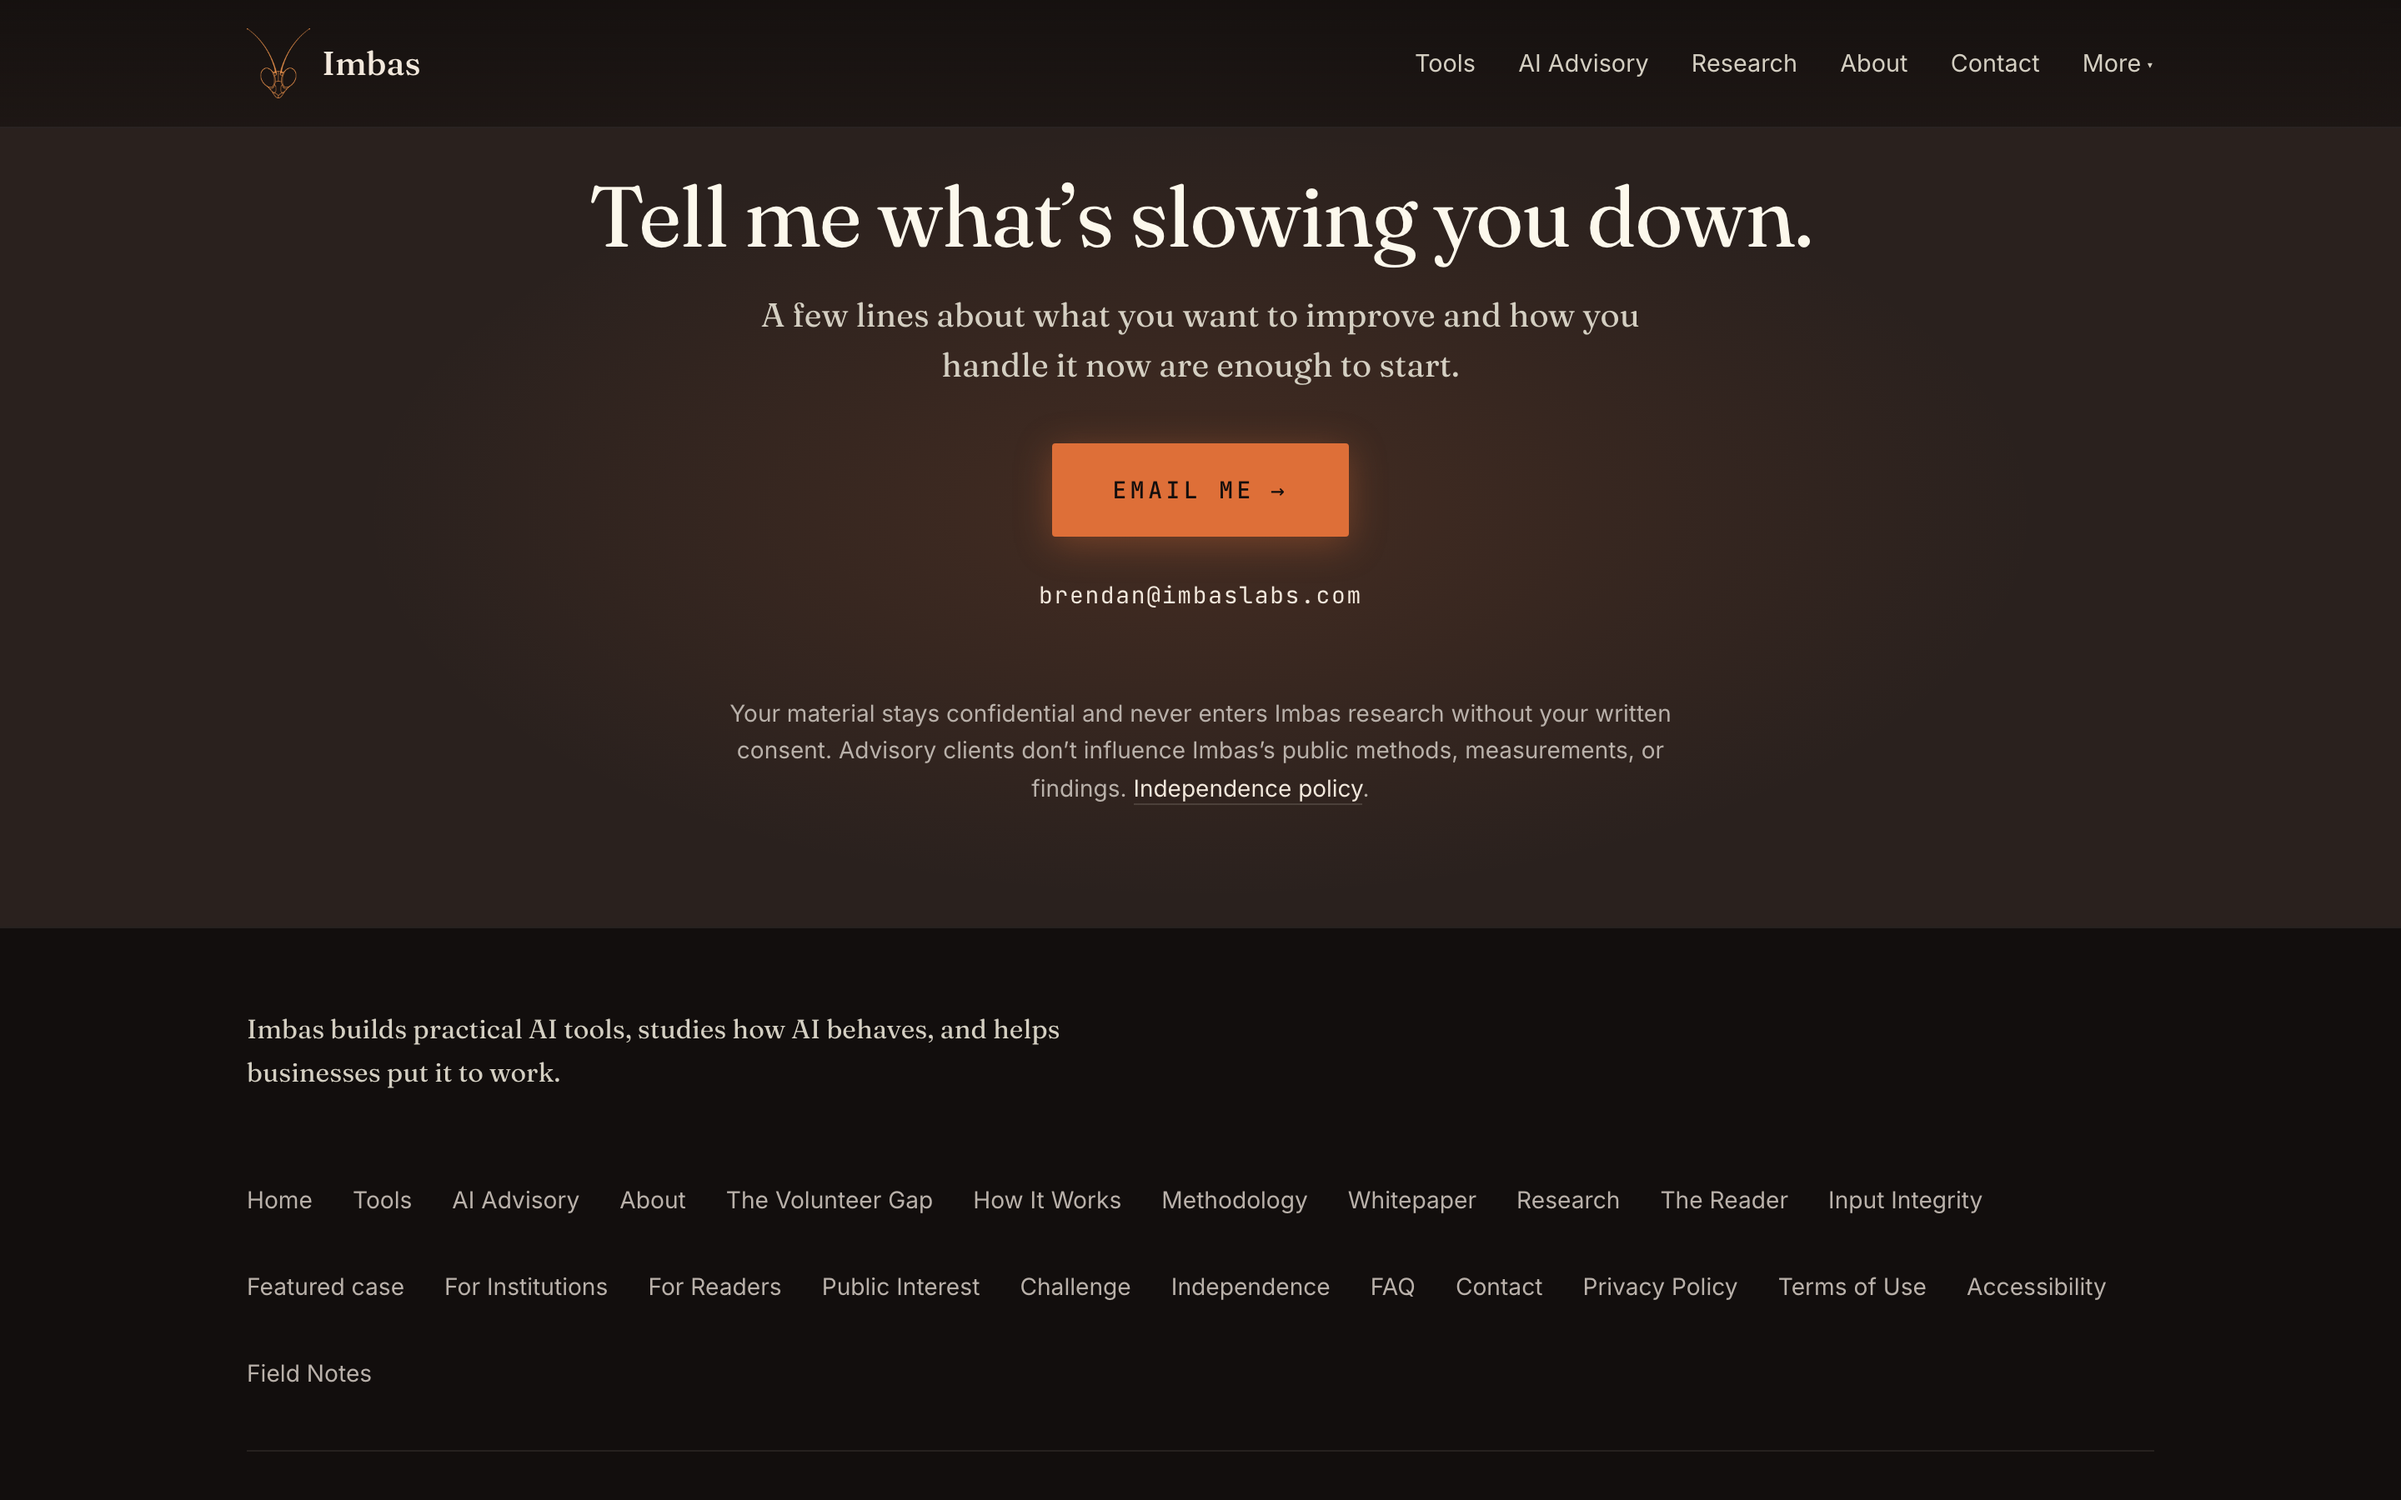
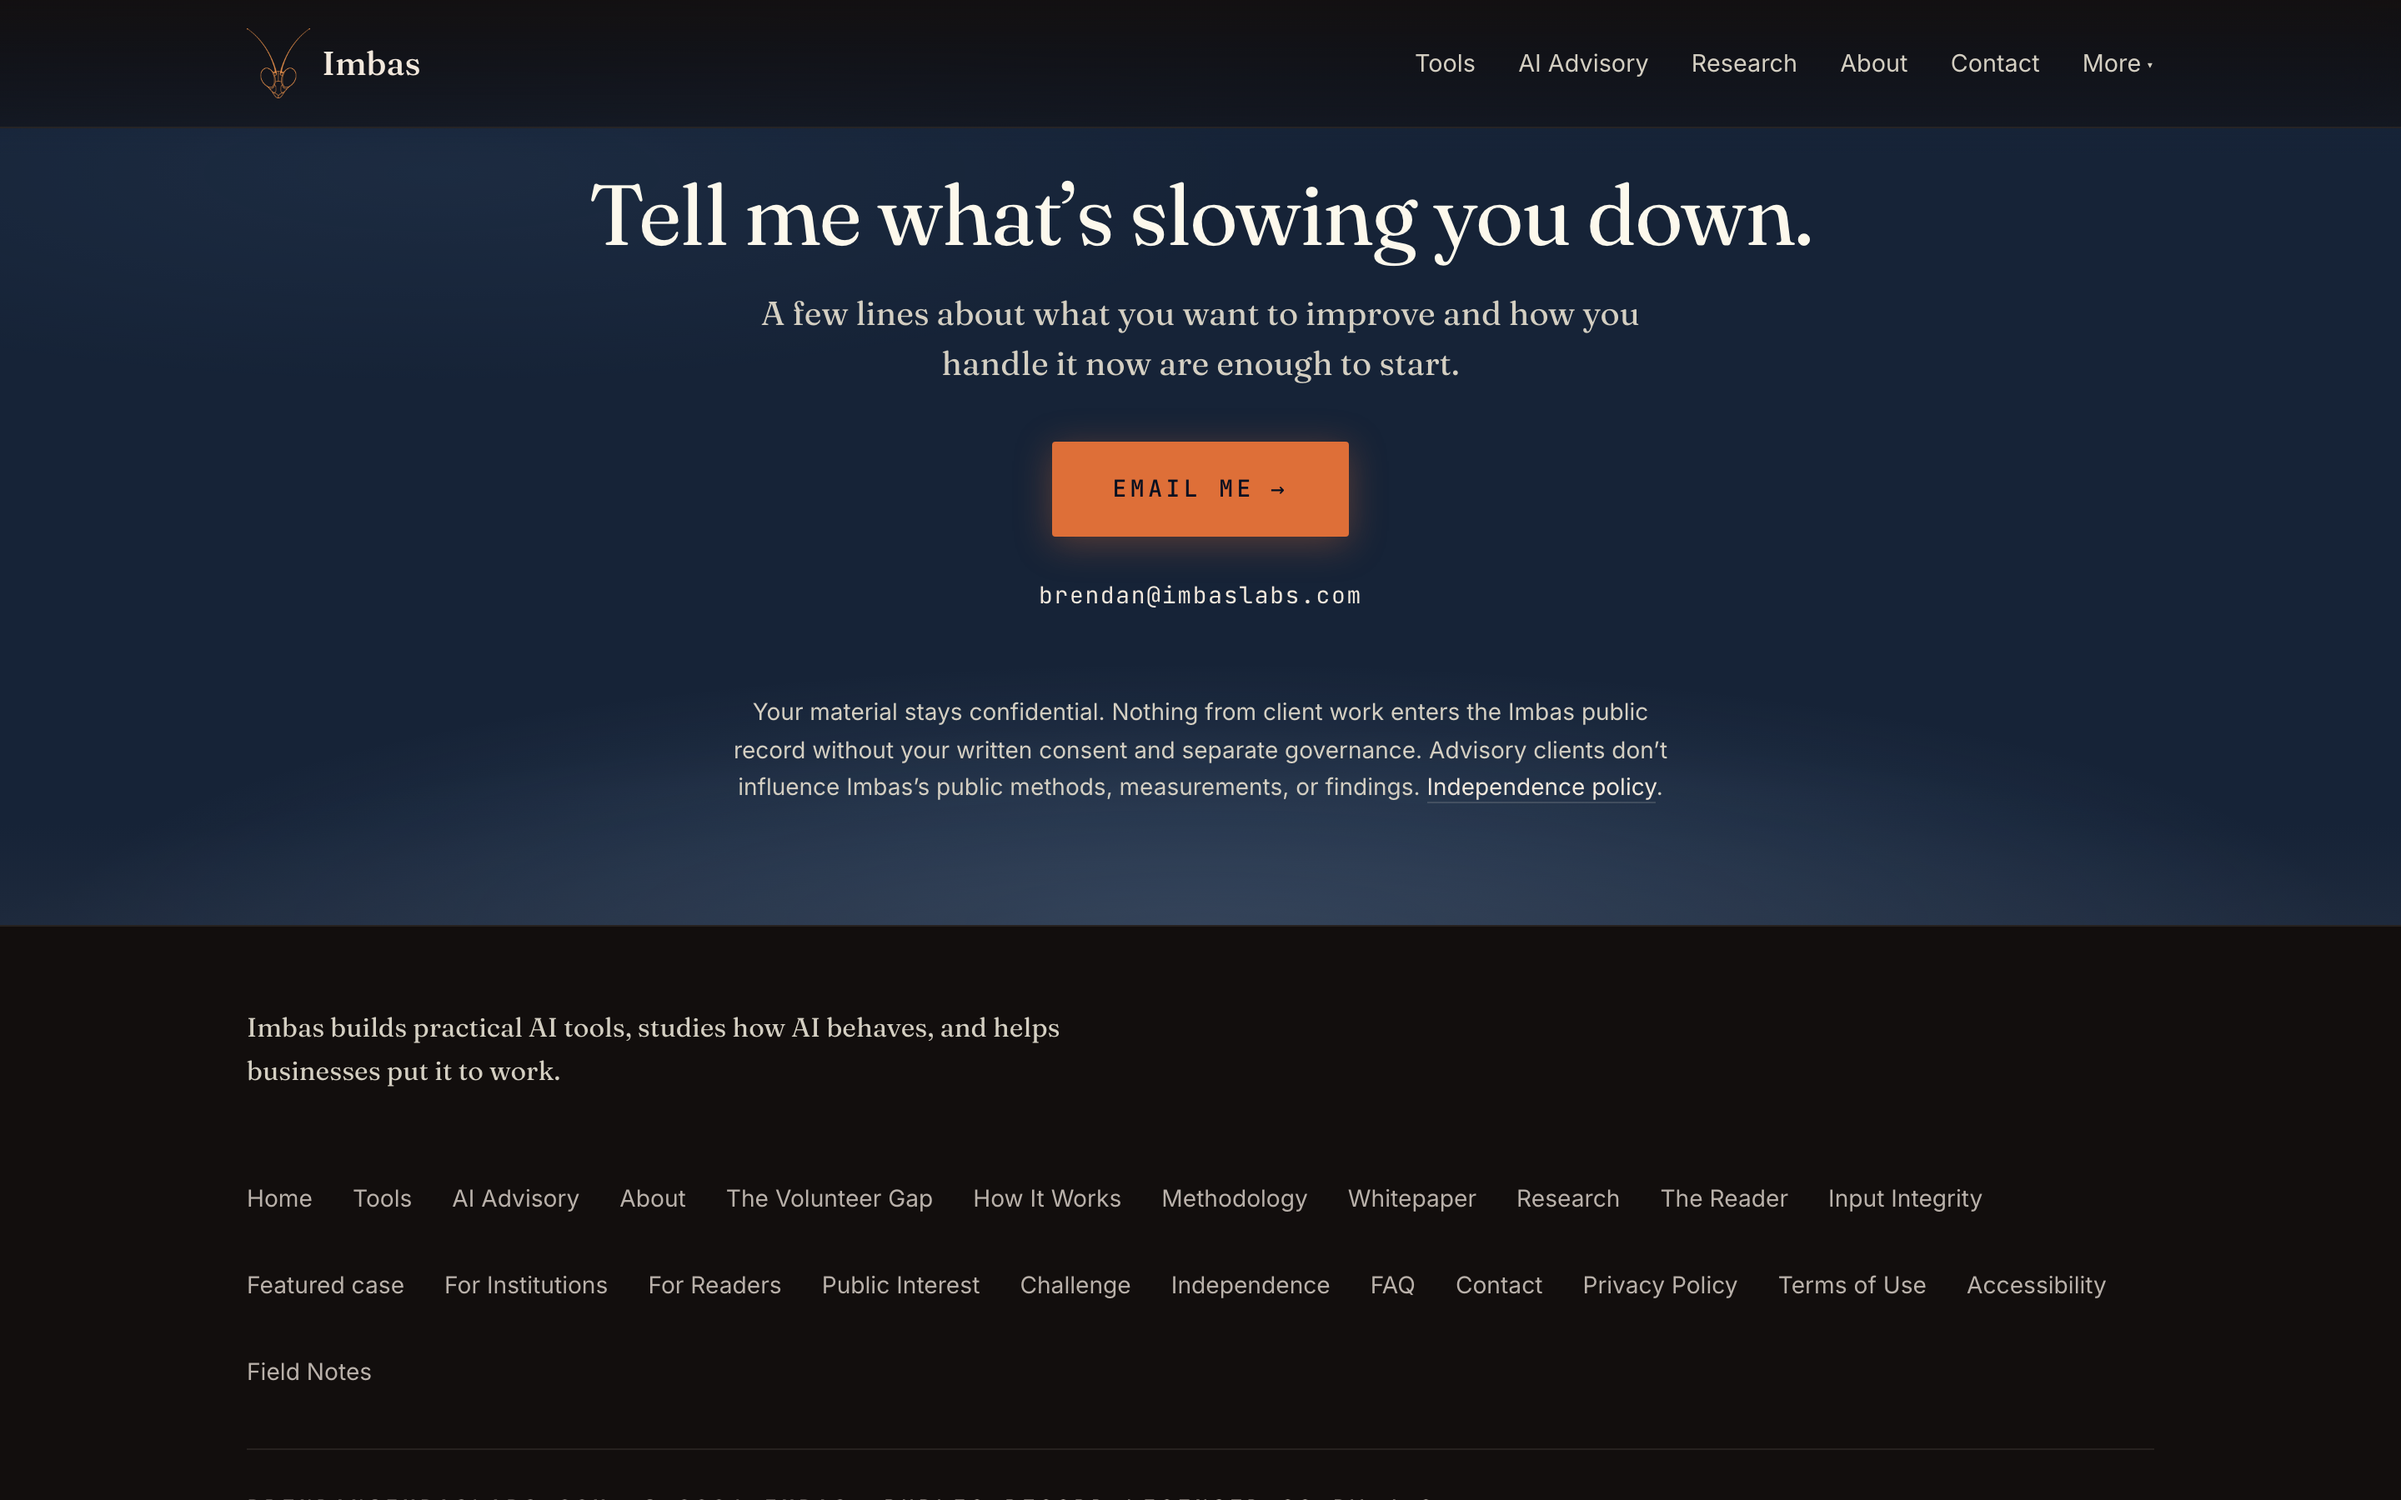
Accept the eight refreshed frames, each with a demonstrated cause
Accepted one scenario at a time with --update: home-tools,
advisory-masthead, advisory-boundaries and home-experience, at both
viewports. Each committed baseline equals the hash that two independent
full --diff runs (2026-11-03T17-06-44Z inside npm test, and
17-10-35Z) observed byte for byte.

Causes, by the commit that moved each frame:
- home-tools: abe9a09 trimmed the hero, so the frame scrolls to 480
  (was 652) on desktop and 316 (was 616) on mobile and now shows the
  hero actions above a borderless Tools band; 8f492c1 lifted the tool
  label to --ember-bright. The previous commit's hero edits move the
  mobile frame by one CSS pixel more: with only those edits reverted,
  the frame reproduces the 8f492c1 observation e42f6cf2 byte for byte.
- advisory-masthead: abe9a09 rewrote the services list that sits under
  the masthead and set that band on the Thesis slate.
- advisory-boundaries: abe9a09 brought the new confidentiality sentence
  and the navy close; 8f492c1 lifted the terms colour. The previous
  commit's Tools I've built block makes the page taller, so the frame
  scrolls to 3657 / 5765. With only advisory.html reverted, both frames
  reproduce the 8f492c1 observations (32127318, 47b34e75) byte for byte.
- home-experience: abe9a09 restored Your Experience's top spacing on
  research.html; scroll 706 -> 681 desktop, 527 -> 522 mobile.

After acceptance, npm test passes (2,034 pass, 0 fail, 13 skipped),
[…]

diff --git a/docs/qa/visual-acceptance-harness/manifest.md b/docs/qa/visual-acceptance-harness/manifest.md
@@ -63,14 +63,14 @@ A board that lists only what it covers reads as complete. These are the result s
 
 | field | value |
 | --- | --- |
[1 lines of base64/hex data omitted]
-| bytes | 624846 |
[1 lines of base64/hex data omitted]
+| bytes | 718911 |
 | snapshot | `advisory-boundaries--desktop.snapshot.txt` |
[1 lines of base64/hex data omitted]
-| snapshot bytes | 2396 |
[1 lines of base64/hex data omitted]
+| snapshot bytes | 2445 |
 | viewport | 1440x900@2x (desktop) |
 | url | `/advisory.html`, query `(none)` |
-| framed on | `.adv-terms` at scroll offset 3737 |
+| framed on | `.adv-terms` at scroll offset 3657 |
 | browser | `HeadlessChrome/148.0.7778.96` |
 | state captured | Advisory, the terms line in the close — the wall between advisory work and Imbas's public measurement |
 | expected behaviour | The close of the page and the one line of terms under it. The v4.4 rewrite folded the three practice commitments this frame used to hold into that line, so the frame follows it. The line still carries the boundary the rest of the tree depends on: client material stays confidential, and advisory clients do not influence Imbas's public methods, measurements, or findings, with the independence policy one link away. This boundary is the reason the commercial page can sit beside the measurement work at all, so it is photographed rather than left to prose. |
@@ -79,14 +79,14 @@ A board that lists only what it covers reads as complete. These are the result s
 
 | field | value |
 | --- | --- |
[1 lines of base64/hex data omitted]
-| bytes | 553029 |
[1 lines of base64/hex data omitted]
+| bytes | 608723 |
 | snapshot | `advisory-boundaries--mobile.snapshot.txt` |
[1 lines of base64/hex data omitted]
-| snapshot bytes | 1501 |
[1 lines of base64/hex data omitted]
+| snapshot bytes | 1550 |
 | viewport | 375x812@3x (mobile) |
 | url | `/advisory.html`, query `(none)` |
-| framed on | `.adv-terms` at scroll offset 5946 |
+| framed on | `.adv-terms` at scroll offset 5765 |
 | browser | `HeadlessChrome/148.0.7778.96` |
 | state captured | Advisory, the terms line in the close — the wall between advisory work and Imbas's public measurement |
 | expected behaviour | The close of the page and the one line of terms under it. The v4.4 rewrite folded the three practice commitments this frame used to hold into that line, so the frame follows it. The line still carries the boundary the rest of the tree depends on: client material stays confidential, and advisory clients do not influence Imbas's public methods, measurements, or findings, with the independence policy one link away. This boundary is the reason the commercial page can sit beside the measurement work at all, so it is photographed rather than left to prose. |
@@ -95,11 +95,11 @@ A board that lists only what it covers reads as complete. These are the result s
 
 | field | value |
 | --- | --- |
[1 lines of base64/hex data omitted]
-| bytes | 888036 |
[1 lines of base64/hex data omitted]
+| bytes | 1000538 |
 | snapshot | `advisory-masthead--desktop.snapshot.txt` |
[1 lines of base64/hex data omitted]
-| snapshot bytes | 1514 |
[1 lines of base64/hex data omitted]
+| snapshot bytes | 1717 |
 | viewport | 1440x900@2x (desktop) |
 | url | `/advisory.html`, query `(none)` |
 | framed on | `.adv-hero` at scroll offset 0 |
@@ -111,8 +111,8 @@ A board that lists only what it covers reads as complete. These are the result s
 
 | field | value |
 | --- | --- |
[1 lines of base64/hex data omitted]
-| bytes | 747449 |
[1 lines of base64/hex data omitted]
+| bytes | 760862 |
 | snapshot | `advisory-masthead--mobile.snapshot.txt` |
[1 lines of base64/hex data omitted]
 | snapshot bytes | 1131 |
@@ -543,14 +543,14 @@ A board that lists only what it covers reads as complete. These are the result s
 
 | field | value |
 | --- | --- |
[1 lines of base64/hex data omitted]
-| bytes | 610915 |
[1 lines of base64/hex data omitted]
+| bytes | 634503 |
 | snapshot | `home-experience--desktop.snapshot.txt` |
[2 lines of base64/hex data omitted]
 | snapshot bytes | 2036 |
 | viewport | 1440x900@2x (desktop) |
 | url | `/research.html`, query `(none)` |
-| framed on | `.your-experience__layout` at scroll offset 706 |
+| framed on | `.your-experience__layout` at scroll offset 681 |
 | browser | `HeadlessChrome/148.0.7778.96` |
 | state captured | The experience region, on the research page since the v4.4 refresh — the loop described in prose beside the two ways into it |
 | expected behaviour | The region that tells a reader what using Imbas is: bring an answer, get a Second Question back, ask it, and put the two side by side. Beside the prose sits the entrance — Open the Reader, under the line offering a run now. THE TWO FRAMES DIFFER HERE AND THAT IS THE POINT OF HAVING BOTH: the desktop frame also carries the suggestion form, and the mobile frame carries none of it, because `.experience-intake__secondary` is display:none under 700px and the `.experience-intake__mobile-suggest` block its stylesheet hands off to exists in no markup on this site. So the assertions below name only what both frames must show, and the desktop-only half is held by the desktop image. This was the surface a homepage rebuild was most likely to replace, and the v4.4 refresh moved it to /research.html unchanged, so it is framed on its own rather than folded into a picture of the whole page. |
@@ -559,14 +559,14 @@ A board that lists only what it covers reads as complete. These are the result s
 
 | field | value |
 | --- | --- |
[1 lines of base64/hex data omitted]
-| bytes | 552613 |
[1 lines of base64/hex data omitted]
+| bytes | 554260 |
 | snapshot | `home-experience--mobile.snapshot.txt` |
[2 lines of base64/hex data omitted]
 | snapshot bytes | 1454 |
 | viewport | 375x812@3x (mobile) |
 | url | `/research.html`, query `(none)` |
-| framed on | `.your-experience__layout` at scroll offset 527 |
+| framed on | `.your-experience__layout` at scroll offset 522 |
 | browser | `HeadlessChrome/148.0.7778.96` |
 | state captured | The experience region, on the research page since the v4.4 refresh — the loop described in prose beside the two ways into it |
 | expected behaviour | The region that tells a reader what using Imbas is: bring an answer, get a Second Question back, ask it, and put the two side by side. Beside the prose sits the entrance — Open the Reader, under the line offering a run now. THE TWO FRAMES DIFFER HERE AND THAT IS THE POINT OF HAVING BOTH: the desktop frame also carries the suggestion form, and the mobile frame carries none of it, because `.experience-intake__secondary` is display:none under 700px and the `.experience-intake__mobile-suggest` block its stylesheet hands off to exists in no markup on this site. So the assertions below name only what both frames must show, and the desktop-only half is held by the desktop image. This was the surface a homepage rebuild was most likely to replace, and the v4.4 refresh moved it to /research.html unchanged, so it is framed on its own rather than folded into a picture of the whole page. |
@@ -575,14 +575,14 @@ A board that lists only what it covers reads as complete. These are the result s
 
 | field | value |
 | --- | --- |
[1 lines of base64/hex data omitted]
-| bytes | 563037 |
[1 lines of base64/hex data omitted]
+| bytes | 956529 |
 | snapshot | `home-tools--desktop.snapshot.txt` |
[1 lines of base64/hex data omitted]
-| snapshot bytes | 1428 |
[1 lines of base64/hex data omitted]
+| snapshot bytes | 1425 |
 | viewport | 1440x900@2x (desktop) |
 | url | `/index.html`, query `(none)` |
-| framed on | `.tool-card--reader h3` at scroll offset 652 |
+| framed on | `.tool-card--reader h3` at scroll offset 480 |
 | browser | `HeadlessChrome/148.0.7778.96` |
 | state captured | The homepage's Tools section — the Reader card, with both of the Reader's uses described |
 | expected behaviour | The section the v4.4 refresh put directly under the hero. Framed on the Reader card's headline, so the frame holds the tool name, the headline, the two paragraphs (check an answer; choose what the next answer should do differently), the Open the Reader action and the real inspection example beside them. The steering capture sits below this frame on desktop and is held by its own markup, not photographed here. |
@@ -591,14 +591,14 @@ A board that lists only what it covers reads as complete. These are the result s
 
 | field | value |
 | --- | --- |
[1 lines of base64/hex data omitted]
-| bytes | 494197 |
[1 lines of base64/hex data omitted]
+| bytes | 718604 |
 | snapshot | `home-tools--mobile.snapshot.txt` |
[1 lines of base64/hex data omitted]
-| snapshot bytes | 946 |
[1 lines of base64/hex data omitted]
+| snapshot bytes | 852 |
 | viewport | 375x812@3x (mobile) |
 | url | `/index.html`, query `(none)` |
-| framed on | `.tool-card--reader h3` at scroll offset 616 |
+| framed on | `.tool-card--reader h3` at scroll offset 316 |
 | browser | `HeadlessChrome/148.0.7778.96` |
 | state captured | The homepage's Tools section — the Reader card, with both of the Reader's uses described |
 | expected behaviour | The section the v4.4 refresh put directly under the hero. Framed on the Reader card's headline, so the frame holds the tool name, the headline, the two paragraphs (check an answer; choose what the next answer should do differently), the Open the Reader action and the real inspection example beside them. The steering capture sits below this frame on desktop and is held by its own markup, not photographed here. |
